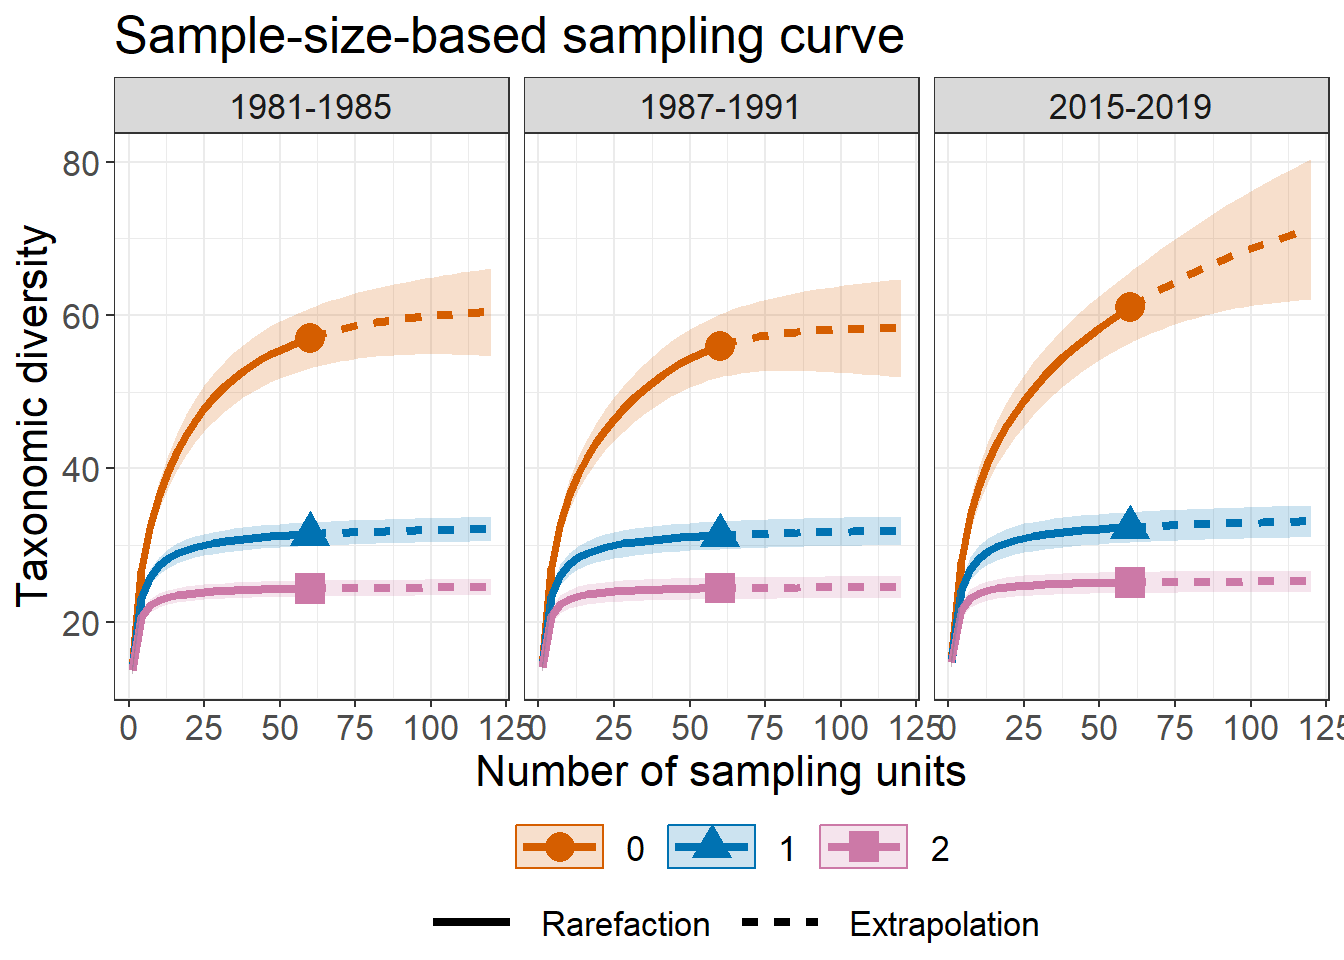
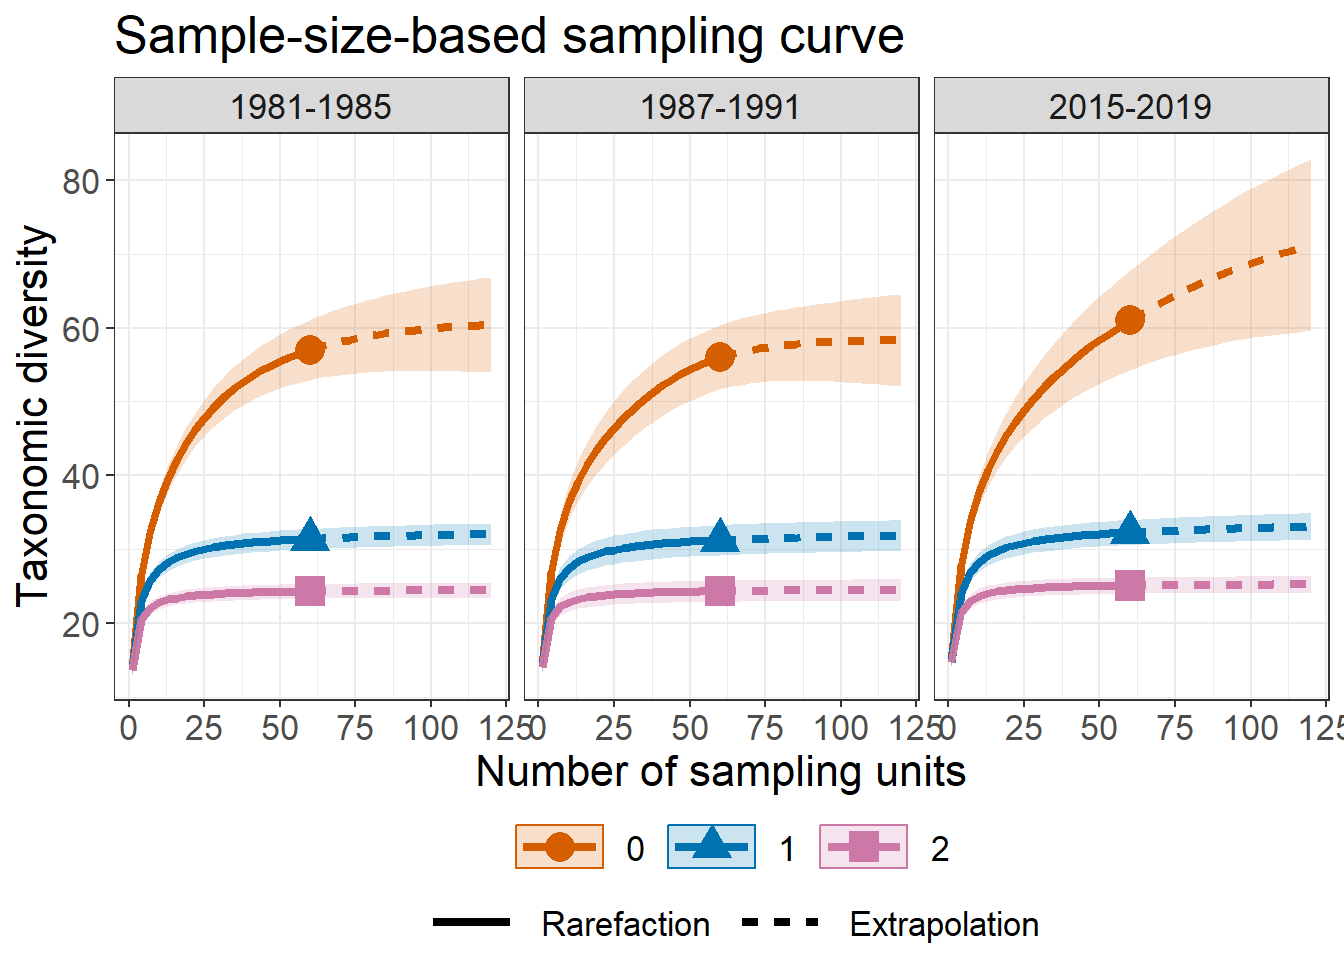
Update README.

diff --git a/README.md b/README.md
@@ -356,8 +356,10 @@ out.FD <- iNEXT3D(data = Brazil_rainforest_data$data, diversity = "FD",
 ```
 
 ``` r
-out.TD$DataInfo
-NULL
+out.TD$TDInfo
+  Assemblage    n S.obs     SC(n)    SC(2n)  f1 f2 f3 f4 f5
+1       Edge 1794   319 0.9387143 0.9744012 110 48 38 28 13
+2   Interior 2074   356 0.9407166 0.9728436 123 48 41 32 19
 ```
 
 Second part of output from function `iNEXT3D` is diversity estimates and
@@ -384,13 +386,13 @@ Here only show first six rows for taxonomic diversity:
 
 ``` r
 head(out.TD$TDiNextEst$size_based)
-  Assemblage Order.q   m      Method       qTD  qTD.LCL  qTD.UCL         SC     SC.LCL     SC.UCL
-1       Edge       0   1 Rarefaction   1.00000   1.0000   1.0000 0.01164071 0.01036041 0.01292101
-2       Edge       0  95 Rarefaction  66.30595  65.2988  67.3131 0.48409405 0.47153615 0.49665195
-3       Edge       0 189 Rarefaction 106.74321 104.6697 108.8167 0.63758443 0.62587083 0.64929804
-4       Edge       0 284 Rarefaction 137.02920 133.9685 140.0899 0.71845672 0.70793794 0.72897549
-5       Edge       0 378 Rarefaction 161.01036 157.0802 164.9405 0.76846379 0.75829144 0.77863614
-6       Edge       0 472 Rarefaction 181.07340 176.3356 185.8112 0.80314380 0.79278644 0.81350116
+  Assemblage Order.q   m      Method       qTD   qTD.LCL   qTD.UCL         SC     SC.LCL     SC.UCL
+1       Edge       0   1 Rarefaction   1.00000   1.00000   1.00000 0.01164071 0.01092485 0.01235657
+2       Edge       0  95 Rarefaction  66.30595  65.37725  67.23465 0.48409405 0.47156415 0.49662395
+3       Edge       0 189 Rarefaction 106.74321 104.71921 108.76721 0.63758443 0.62552422 0.64964465
+4       Edge       0 284 Rarefaction 137.02920 134.01159 140.04682 0.71845672 0.70738855 0.72952488
+5       Edge       0 378 Rarefaction 161.01036 157.09083 164.92989 0.76846379 0.75807630 0.77885128
+6       Edge       0 472 Rarefaction 181.07340 176.29921 185.84759 0.80314380 0.79318823 0.81309937
 ```
 
 The second data frame of list `$TDiNextEst` (as shown below for
@@ -405,24 +407,31 @@ Here only show first six rows for taxonomic diversity:
 
 ``` r
 head(out.TD$TDiNextEst$coverage_based)
-  Assemblage Order.q         SC         m      Method       qTD     qTD.LCL    qTD.UCL
-1       Edge       0 0.01164071   1.00000 Rarefaction   1.00000   0.9702311   1.029769
-2       Edge       0 0.48409405  94.99999 Rarefaction  66.30594  62.9183600  69.693525
-3       Edge       0 0.63758443 189.00000 Rarefaction 106.74321 101.3676446 112.118776
-4       Edge       0 0.71845672 284.00000 Rarefaction 137.02920 130.0825592 143.975842
-5       Edge       0 0.76846379 378.00002 Rarefaction 161.01037 152.6674065 169.353326
-6       Edge       0 0.80314380 472.00002 Rarefaction 181.07340 171.2819986 190.864810
+  Assemblage Order.q         SC         m      Method       qTD  qTD.LCL   qTD.UCL
+1       Edge       0 0.01164071   1.00000 Rarefaction   1.00000   1.0000   1.00000
+2       Edge       0 0.48409405  94.99999 Rarefaction  66.30594  63.0443  69.56758
+3       Edge       0 0.63758443 189.00000 Rarefaction 106.74321 101.4235 112.06289
+4       Edge       0 0.71845672 284.00000 Rarefaction 137.02920 130.0249 144.03355
+5       Edge       0 0.76846379 378.00002 Rarefaction 161.01037 152.4969 169.52380
+6       Edge       0 0.80314380 472.00002 Rarefaction 181.07340 171.1049 191.04195
 ```
 
-The output `$AsyEst` lists the diversity labels, the observed diversity,
-asymptotic diversity estimates, estimated bootstrap standard error
-(`s.e.`) and confidence intervals for diversity with q = 0, 1, and 2
-(`LCL`, `UCL`). The estimated asymptotic and observed diversity can also
-be computed via the function `ObsAsy3D()`. The output are shown below:
+The output `$TDAsyEst` lists the diversity labels, the observed
+diversity, asymptotic diversity estimates, estimated bootstrap standard
+error (`s.e.`) and confidence intervals for diversity with q = 0, 1, and
+2 (`LCL`, `UCL`). The estimated asymptotic and observed diversity can
+also be computed via the function `ObsAsy3D()`. The output are shown
+below:
 
 ``` r
-out.TD$AsyEst
-NULL
+out.TD$TDAsyEst
+  Assemblage Taxonomic Diversity Taxonomic Observed Taxonomic Estimator      s.e.       LCL       UCL
+1       Edge    Species richness          319.00000           444.97141 27.631000 390.81565 499.12717
+2       Edge   Shannon diversity          155.38611           177.99972  3.335778 171.46171 184.53772
+3       Edge   Simpson diversity           82.02345            85.90541  4.622618  76.84524  94.96557
+4   Interior    Species richness          356.00000           513.51776 21.914898 470.56535 556.47017
+5   Interior   Shannon diversity          163.51447           186.98301  7.714017 171.86381 202.10220
+6   Interior   Simpson diversity           72.15305            74.71763  5.472373  63.99198  85.44329
 ```
 
 ### BASIC GRAPHIC DISPLAYS: FUNCTION ggiNEXT3D()
@@ -658,12 +667,12 @@ to the rarefaction part whereas the others correspond to extrapolation.
 estimate3D(Brazil_rainforest_data$data, diversity = 'TD', q = c(0,1,2), datatype = "abundance", 
            base = "coverage", level = 0.995)
   Assemblage Order.q    SC        m        Method       qTD      s.e.   qTD.LCL   qTD.UCL
-1       Edge       0 0.995 6944.000 Extrapolation 434.69401 26.194443 383.35385 486.03418
-2       Edge       1 0.995 6944.000 Extrapolation 176.09987  7.013085 162.35448 189.84527
-3       Edge       2 0.995 6944.000 Extrapolation  84.86771  6.389158  72.34519  97.39023
-4   Interior       0 0.995 8643.312 Extrapolation 500.23261 26.015174 449.24380 551.22141
-5   Interior       1 0.995 8643.312 Extrapolation 185.36031  5.652805 174.28102 196.43960
-6   Interior       2 0.995 8643.312 Extrapolation  74.08576  4.507849  65.25054  82.92099
+1       Edge       0 0.995 6944.000 Extrapolation 434.69401 25.289606 385.12730 484.26073
+2       Edge       1 0.995 6944.000 Extrapolation 176.09987  5.341759 165.63022 186.56953
+3       Edge       2 0.995 6944.000 Extrapolation  84.86771  4.620648  75.81141  93.92402
+4   Interior       0 0.995 8643.312 Extrapolation 500.23261 23.538804 454.09740 546.36782
+5   Interior       1 0.995 8643.312 Extrapolation 185.36031  5.760025 174.07087 196.64975
+6   Interior       2 0.995 8643.312 Extrapolation  74.08576  4.239065  65.77735  82.39418
 ```
 
 ### EMPIRICAL AND ASYMPTOTIC DIVERSITY FUNCTION: ObsAsy3D
@@ -688,16 +697,16 @@ out1 <- ObsAsy3D(Brazil_rainforest_data$data, diversity = 'TD', datatype = "abun
 
 head(out1, 10)
    Assemblage Order.q       qTD      s.e.   qTD.LCL  qTD.UCL     Method
-1        Edge     0.0 444.97141 22.648074 400.58200 489.3608 Asymptotic
-2        Edge     0.2 375.27048 15.907584 344.09219 406.4488 Asymptotic
-3        Edge     0.4 312.45184 10.773268 291.33662 333.5671 Asymptotic
-4        Edge     0.6 258.37946  7.416983 243.84244 272.9165 Asymptotic
-5        Edge     0.8 213.72995  5.628195 202.69889 224.7610 Asymptotic
-6        Edge     1.0 177.99972  4.858594 168.47705 187.5224 Asymptotic
-7        Edge     1.2 149.91442  4.576046 140.94554 158.8833 Asymptotic
-8        Edge     1.4 127.94456  4.498629 119.12741 136.7617 Asymptotic
-9        Edge     1.6 110.67216  4.514379 101.82414 119.5202 Asymptotic
-10       Edge     1.8  96.94807  4.571141  87.98879 105.9073 Asymptotic
+1        Edge     0.0 444.97141 34.206345 377.92821 512.0146 Asymptotic
+2        Edge     0.2 375.27048 23.567431 329.07917 421.4618 Asymptotic
+3        Edge     0.4 312.45184 15.615533 281.84595 343.0577 Asymptotic
+4        Edge     0.6 258.37946 10.451587 237.89472 278.8642 Asymptotic
+5        Edge     0.8 213.72995  7.541398 198.94909 228.5108 Asymptotic
+6        Edge     1.0 177.99972  5.984010 166.27127 189.7282 Asymptotic
+7        Edge     1.2 149.91442  5.078316 139.96111 159.8677 Asymptotic
+8        Edge     1.4 127.94456  4.514335 119.09663 136.7925 Asymptotic
+9        Edge     1.6 110.67216  4.183495 102.47266 118.8717 Asymptotic
+10       Edge     1.8  96.94807  4.020864  89.06732 104.8288 Asymptotic
 ```
 
 ### GRAPHIC DISPLAYS FUNCTION: ggObsAsy3D()
